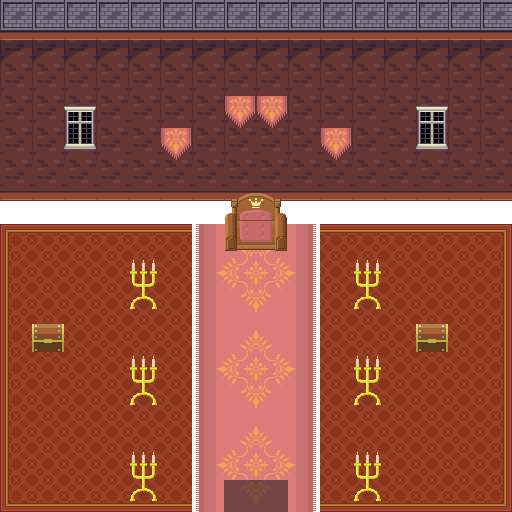
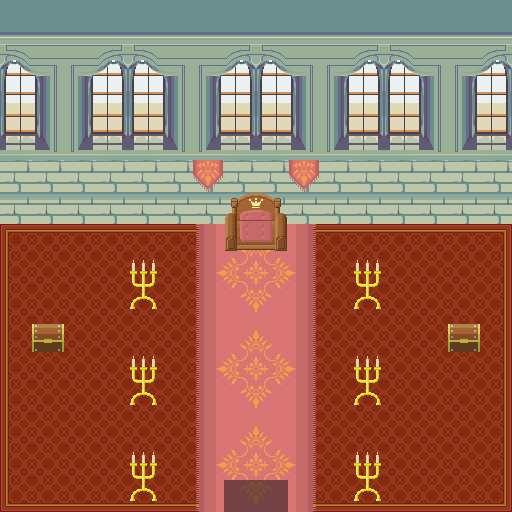
Created a new map and started code for text interactions

diff --git a/game.js b/game.js
@@ -43,7 +43,7 @@ class Gameboard {
 
 
     init() {
-        this.map = new GameMap(window.GameMaps.RoyalRoom);
+        this.map = new GameMap(window.GameMaps.OrinDale);
         this.map.mountObjects();
 
 
@@ -52,18 +52,18 @@ class Gameboard {
 
     
         this.startGameLoop();
-        this.map.startCutscene([
-            { who: "player", type: "walk", direction: "Up" },
-            { who: "player", type: "walk", direction: "Up"},
-            { who: "player", type: "walk", direction: "Right"},
-            { who: "player", type: "walk", direction: "Up"},
-            { who: "player", type: "walk", direction: "Up"},
-            { who: "player", type: "walk", direction: "Up"},
-            { who: "player", type: "walk", direction: "Up"},
-            {who: "villain", type: "stand", direction: "Up", time: 3300}
+        // this.map.startCutscene([
+        //     { who: "player", type: "walk", direction: "Up" },
+        //     { who: "player", type: "walk", direction: "Up"},
+        //     { who: "player", type: "walk", direction: "Right"},
+        //     { who: "player", type: "walk", direction: "Up"},
+        //     { who: "player", type: "walk", direction: "Up"},
+        //     { who: "player", type: "walk", direction: "Up"},
+        //     { who: "player", type: "walk", direction: "Up"},
+        //     {who: "villain", type: "stand", direction: "Up", time: 3300}
 
             
-        ])
+        // ])
         
      
     }

diff --git a/GameMap.js b/GameMap.js
@@ -5,7 +5,7 @@ class GameMap {
         this.walls = config.walls || [];
         this.mapImage = new Image();
         this.mapImage.src = config.mapSrc
-        this.isCutScenePlaying = true;
+        this.isCutScenePlaying = false;
        
     }
 
@@ -47,7 +47,7 @@ class GameMap {
             this.isCutScenePlaying = false;
 
             //reset npc to idle behavior
-            Object.values(this.gameOjects).forEach(object => object.doBehaviorEvent(this))
+            Object.values(this.gameObjects).forEach(object => object.doBehaviorEvent(this))
         }
 
         addWall(x,y) {
@@ -68,7 +68,7 @@ class GameMap {
     }
 
 
-//Different Rooms that can show up in the canvas along with some defaault objects that spawn when each room is loaded
+//Different Rooms that can show up in the canvas along with some default objects that spawn when each room is loaded
 window.GameMaps = {
     RoyalRoom: {
         mapSrc: "Assets\\Objects\\Royal Room.png",
@@ -115,8 +115,15 @@ window.GameMaps = {
         } 
     },
 
-    SecondRoom: {
-
+    OrinDale: {
+        mapSrc: "Assets\\Objects\\OrinDale.png",
+        gameObjects: {
+            player: new Player ({
+                isPlayerControlled:true,
+                x: 334,
+                y: 120,
+            }),
+        }
     },
 
     ThirdRoom: {

diff --git a/People.js b/People.js
@@ -3,6 +3,8 @@ class Player extends GameObject {
     constructor(config) {
         super(config);
         this.movingProgressRemaining = 0;
+        this.isStanding = false;
+
         this.isPlayerControlled = config.isPlayerControlled || false;
 
         this.directionUpdate = {
@@ -57,10 +59,12 @@ class Player extends GameObject {
         }
 
         if (behavior.type === "stand") {
+            this.isStanding = true;
             setTimeout(() => {
                 utils.emitEvent("PersonStandComplete", {
                     whoId: this.id
                 })
+                this.isStanding = false;
             }, behavior.time);
         }
     }

diff --git a/Text.js b/Text.js
@@ -1,0 +1,24 @@
+class TextMessage {
+    constructor({ text, onComplete }) {
+        this.text = text;
+        this.onComplete = onComplete;
+        this.elememt = mull;
+    }
+
+    createElement() {
+        // create the Element
+        this.element = document.createElement("div");
+        this.element.classList.add("TextMessage");
+
+        this.element.innerHTML = (`
+        <p class="TextMessage_p">${this.text}</p>
+        <button class="TextMessage_button">Next</button>
+        `)
+    }
+
+    init(container) {
+        this.createElement();
+        container.appendChild(this.elememt)
+    }
+    
+}

diff --git a/GameObjects.js b/GameObjects.js
@@ -35,7 +35,7 @@ class GameObject{
     async doBehaviorEvent(map) {
         //don't do anything if there is more improtant stuff going on or config is empty
 
-        if(map.isCutScenePlaying || this.behaviorLoop.length === 0) {
+        if(map.isCutScenePlaying || this.behaviorLoop.length === 0 || this.isStanding) {
             return;
         }
 
